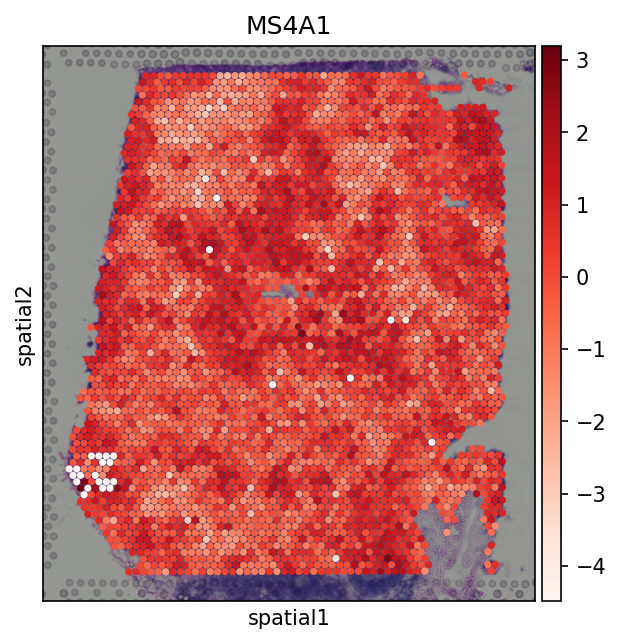
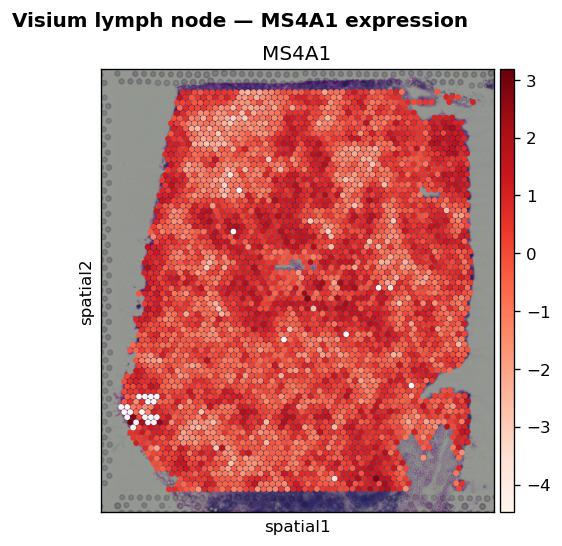
feat: clear figure titles + logical reproducibility fingerprint
- UMAP + spatial maps now carry descriptive titles (dataset + what is shown)
- reduce figure DPI 150 -> 120 (~20% smaller)
- reproducibility: hash deterministic logical fingerprint (cluster labels + stats)
  instead of non-deterministic h5ad bytes (anndata compression varies per run)
- drop orphaned nhood figure from docs/figures

diff --git a/workflow/scripts/spatial.py b/workflow/scripts/spatial.py
@@ -52,16 +52,18 @@ def main(
 
     # 1) statistical co-localization matrix
     sq.pl.nhood_enrichment(adata, cluster_key="leiden", show=False)
+    plt.suptitle("Visium lymph node — neighborhood enrichment", fontweight="bold")
     Path(output_nhood).parent.mkdir(parents=True, exist_ok=True)
-    plt.savefig(output_nhood, bbox_inches="tight", dpi=150)
+    plt.savefig(output_nhood, bbox_inches="tight", dpi=120)
     plt.close()
 
     # 2) tissue map colored by cluster
     sc.pl.spatial(
         adata, color="leiden", img_key="hires", library_id=_LIBRARY_ID, size=1.5, show=False
     )
+    plt.suptitle("Visium lymph node — spatial clusters (Leiden)", fontweight="bold")
     Path(output_leiden).parent.mkdir(parents=True, exist_ok=True)
-    plt.savefig(output_leiden, bbox_inches="tight", dpi=150)
+    plt.savefig(output_leiden, bbox_inches="tight", dpi=120)
     plt.close()
 
     # 3) tissue map colored by a marker gene
@@ -76,7 +78,8 @@ def main(
             cmap="Reds",
             show=False,
         )
-        plt.savefig(output_gene, bbox_inches="tight", dpi=150)
+        plt.suptitle(f"Visium lymph node — {marker} expression", fontweight="bold")
+        plt.savefig(output_gene, bbox_inches="tight", dpi=120)
         plt.close()
     else:
         shutil.copyfile(output_leiden, output_gene)

diff --git a/workflow/scripts/report.py b/workflow/scripts/report.py
@@ -1,5 +1,6 @@
-"""Provenance report: summary stats + artifact hashes for reproducibility."""
+"""Provenance report: summary stats + artifact fingerprints for reproducibility."""
 
+import hashlib
 import json
 import sys
 from datetime import UTC, datetime
@@ -8,6 +9,13 @@ from pathlib import Path
 import anndata as ad
 
 from common import sha256
+
+
+def logical_fingerprint(adata: ad.AnnData) -> str:
+    """Deterministic fingerprint of the clustering result (stable across re-runs)."""
+    labels = ",".join(sorted(adata.obs["leiden"].astype(str).tolist()))
+    payload = f"{labels}|cells={adata.n_obs}|genes={adata.n_vars}"
+    return hashlib.sha256(payload.encode()).hexdigest()
 
 
 def main(cluster_h5: str, de_csv: str, perturb_csv: str, output_json: str) -> None:
@@ -22,7 +30,7 @@ def main(cluster_h5: str, de_csv: str, perturb_csv: str, output_json: str) -> No
             "n_clusters": n_clusters,
         },
         "artifacts": {
-            "cluster": {"path": str(cluster_h5), "sha256": sha256(Path(cluster_h5))},
+            "cluster": {"path": str(cluster_h5), "logical_sha256": logical_fingerprint(adata)},
             "de_markers": {"path": str(de_csv), "sha256": sha256(Path(de_csv))},
             "perturbation": {"path": str(perturb_csv), "sha256": sha256(Path(perturb_csv))},
         },

diff --git a/evals/e01_pipeline.py b/evals/e01_pipeline.py
@@ -44,6 +44,12 @@ def sha256(path: Path) -> str:
     return h.hexdigest()
 
 
+def logical_fingerprint(adata) -> str:
+    labels = ",".join(sorted(adata.obs["leiden"].astype(str).tolist()))
+    payload = f"{labels}|cells={adata.n_obs}|genes={adata.n_vars}"
+    return hashlib.sha256(payload.encode()).hexdigest()
+
+
 def check_correctness() -> tuple[bool, int]:
     markers = pd.read_csv(MARKERS)
     found = set(markers["gene"].str.upper())
@@ -55,11 +61,19 @@ def check_correctness() -> tuple[bool, int]:
 
 
 def check_reproducibility() -> bool:
+    import anndata as ad
+
     prov = json.loads(PROV.read_text())
     all_ok = True
     for name, meta in prov["artifacts"].items():
-        actual = sha256(REPO / meta["path"])
-        match = actual == meta["sha256"]
+        if name == "cluster":
+            adata = ad.read_h5ad(REPO / meta["path"])
+            actual = logical_fingerprint(adata)
+            expected = meta["logical_sha256"]
+        else:
+            actual = sha256(REPO / meta["path"])
+            expected = meta["sha256"]
+        match = actual == expected
         all_ok &= match
         print(f"[reproducibility] {name}: {'match' if match else 'MISMATCH'}")
     return all_ok

diff --git a/workflow/scripts/cluster.py b/workflow/scripts/cluster.py
@@ -26,9 +26,10 @@ def main(input_path: str, output_h5: str, output_fig: str) -> None:
     matplotlib.use("Agg")
     import matplotlib.pyplot as plt
 
-    sc.pl.umap(adata, color=["leiden"], show=False)
+    sc.pl.umap(adata, color="leiden", show=False)
+    plt.suptitle("PBMC 3k — single-cell clusters (Leiden)", fontweight="bold")
     Path(output_fig).parent.mkdir(parents=True, exist_ok=True)
-    plt.savefig(output_fig, bbox_inches="tight", dpi=150)
+    plt.savefig(output_fig, bbox_inches="tight", dpi=120)
     print(f"Cluster: {adata.obs['leiden'].nunique()} clusters")
 
 
